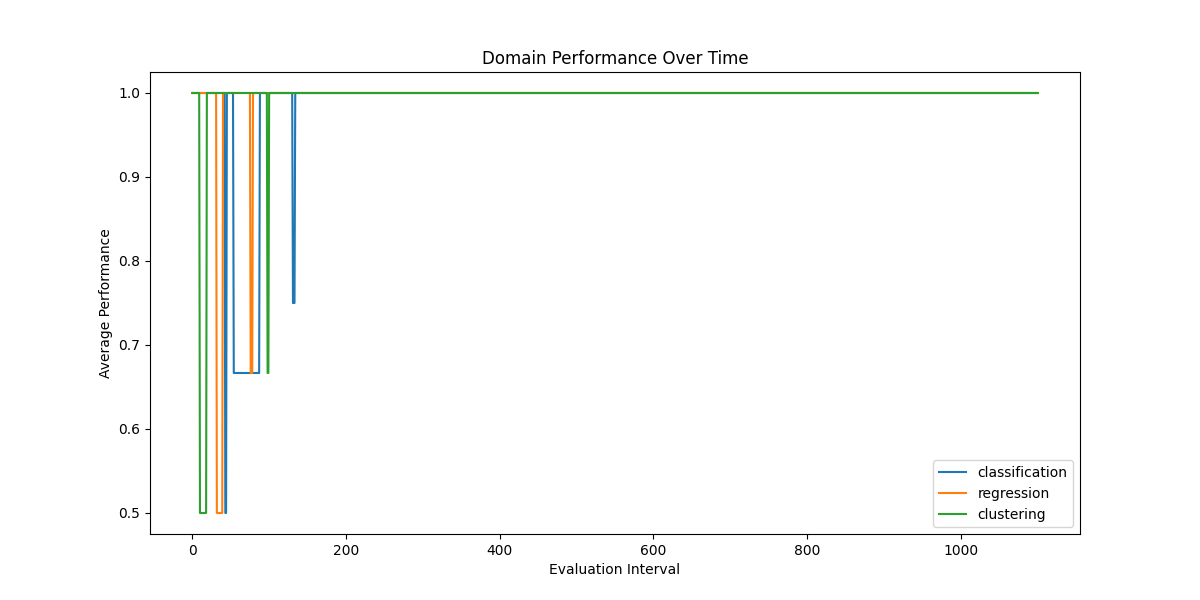
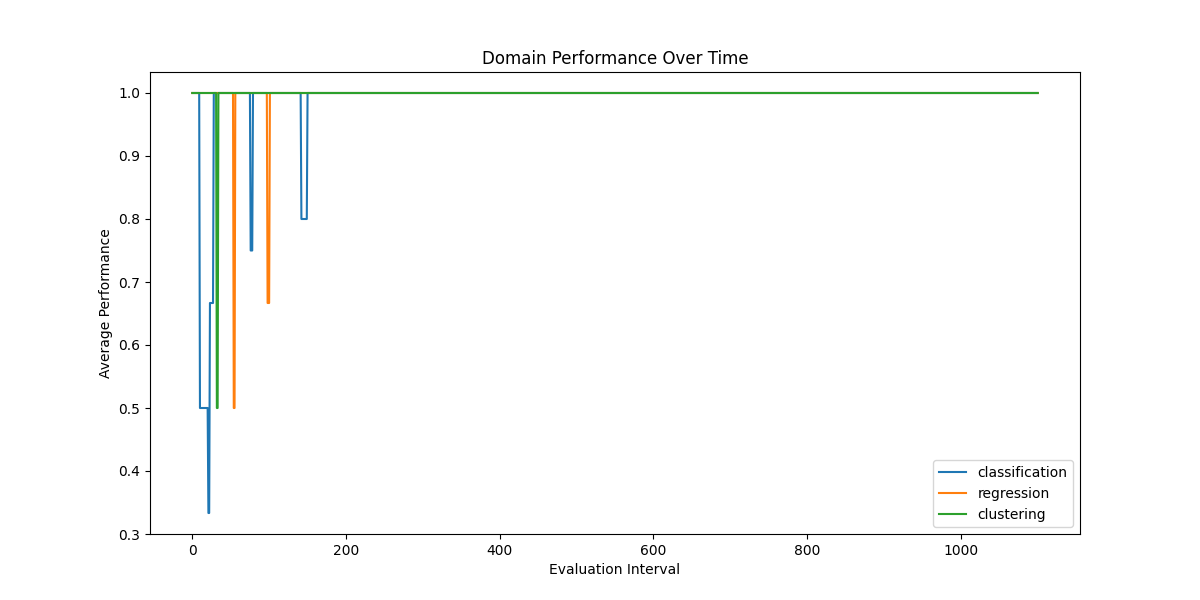
Backengine code update

diff --git a/collaborative_intelligence.py b/collaborative_intelligence.py
@@ -33,6 +33,7 @@ class Agent:
         self.mentee = None
         self.mentoring_impact = defaultdict(list)  # Track impact of mentoring
         self.ramp_up_boost = 1.0  # Temporary boost for new agents
+        self.utilization_score = 1.0  # New attribute to track agent utilization
 
     async def process_task(self, task: Task) -> Tuple[str, float]:
         processing_time = task.complexity * (1 / (self.reputation * self.ramp_up_boost)) * (1 / self.expertise_level[task.domain])
@@ -115,6 +116,11 @@ class Agent:
     def decay_ramp_up_boost(self):
         self.ramp_up_boost = max(1.0, self.ramp_up_boost * 0.95)
 
+    def update_utilization_score(self, total_tasks: int):
+        expected_tasks = total_tasks / len(self.performance_by_task_type)
+        actual_tasks = self.total_tasks_processed
+        self.utilization_score = min(2.0, max(0.5, actual_tasks / expected_tasks))
+
 class MultiAgentSystem:
     def __init__(self, agents: List[Agent]):
         self.agents = agents
@@ -162,7 +168,8 @@ class MultiAgentSystem:
             domain_balance_score = domain_workloads[task.domain] / total_domain_workload if total_domain_workload > 0 else 1
             expertise_score = agent.expertise_level[task.domain]
             ramp_up_score = agent.ramp_up_boost
-            total_score = performance_score * workload_score * specialization_score * warm_up_score * integration_score * catch_up_score * domain_balance_score * expertise_score * ramp_up_score
+            utilization_score = 1 / agent.utilization_score  # Favor underutilized agents
+            total_score = performance_score * workload_score * specialization_score * warm_up_score * integration_score * catch_up_score * domain_balance_score * expertise_score * ramp_up_score * utilization_score
             agent_scores.append((agent, total_score))
         chosen_agent = max(agent_scores, key=lambda x: x[1])[0]
         self.log.append(f"Time {self.current_time}: Chose {chosen_agent.agent_id} for task {task.task_id}")
@@ -183,6 +190,11 @@ class MultiAgentSystem:
             self.task_history[agent.agent_id].append((task_id, success_rate))
             self._update_agent_reputation(agent)
         self.log.append(f"Time {self.current_time}: Processed {len(results)} tasks")
+
+        # Update utilization scores
+        total_tasks = sum(len(agent.task_history) for agent in self.agents)
+        for agent in self.agents:
+            agent.update_utilization_score(total_tasks)
 
     def _update_agent_reputation(self, agent: Agent):
         recent_performance = self._calculate_agent_performance(agent)
@@ -331,23 +343,39 @@ class MultiAgentSystem:
         self.mentoring_reports.append(report)
 
     def _adjust_agent_specializations(self):
+        global_domain_performance = self._calculate_global_domain_performance()
         for agent in self.agents:
             if agent.specialization_change_cooldown > 0:
                 agent.specialization_change_cooldown -= 1
                 continue
 
-            best_specialization = agent.get_best_specialization()
+            best_specialization = self._get_best_specialization_for_agent(agent, global_domain_performance)
             if best_specialization != agent.specialization:
                 performance_diff = agent.get_performance_difference()
-                change_probability = min(1.0, performance_diff * 25)  # Increased sensitivity further
+                change_probability = min(1.0, performance_diff * 30)  # Increased sensitivity even further
                 if random.random() < change_probability:
                     self._remove_mentorship(agent)
                     self.log.append(f"Time {self.current_time}: {agent.agent_id} changed specialization from {agent.specialization} to {best_specialization}")
                     self.specialization_changes.append((self.current_time, agent.agent_id, agent.specialization, best_specialization))
                     agent.specialization = best_specialization
                     agent.specialization_strength = 1.0  # Reset specialization strength
-                    agent.specialization_change_cooldown = 2  # Reduced cooldown period further
+                    agent.specialization_change_cooldown = 2  # Kept the reduced cooldown period
                     self._assign_mentor(agent)
+
+    def _calculate_global_domain_performance(self):
+        global_performance = defaultdict(lambda: {'success': 0, 'total': 0})
+        for agent in self.agents:
+            for domain, performance in agent.performance_by_task_type.items():
+                global_performance[domain]['success'] += performance['success']
+                global_performance[domain]['total'] += performance['total']
+        return {domain: perf['success'] / max(1, perf['total']) for domain, perf in global_performance.items()}
+
+    def _get_best_specialization_for_agent(self, agent: Agent, global_domain_performance: Dict[str, float]):
+        agent_performance = {domain: perf['success'] / max(1, perf['total']) for domain, perf in agent.performance_by_task_type.items()}
+        combined_performance = {}
+        for domain in agent_performance:
+            combined_performance[domain] = 0.7 * agent_performance[domain] + 0.3 * global_domain_performance[domain]
+        return max(combined_performance, key=combined_performance.get)
 
     def _update_performance_thresholds(self):
         if len(self.performance_history) > 10:
